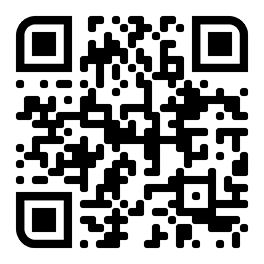
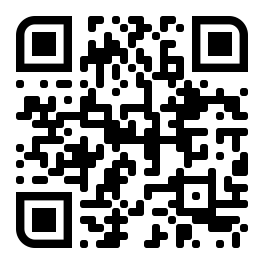
correcting the URL for the inventory management project link and updating the QR code

diff --git a/index.html b/index.html
@@ -252,7 +252,7 @@
                                 <img src="assets/imagens/qrCodes/qr-code-estoque.png" alt="QRcode">
                                 <p ><sapn data-key="fraseQRcode1">Facilite! Do PC para o mobile:<br>um QR code e</sapn> 2 <sapn data-key="fraseQRcode2">cafés e pronto </sapn>&#9749;.</p>
                             </div>
-                            <a href="https://inventory-management-system.rf.gd/" target="_blank" data-key="acessoProjeto" class="acessoProjeto">
+                            <a href="https://inventory-management-system.ct.ws" target="_blank" data-key="acessoProjeto" class="acessoProjeto">
                                 <span class="material-symbols-outlined" >open_in_new</span>
                                 Acesse o Projeto
                             </a>
